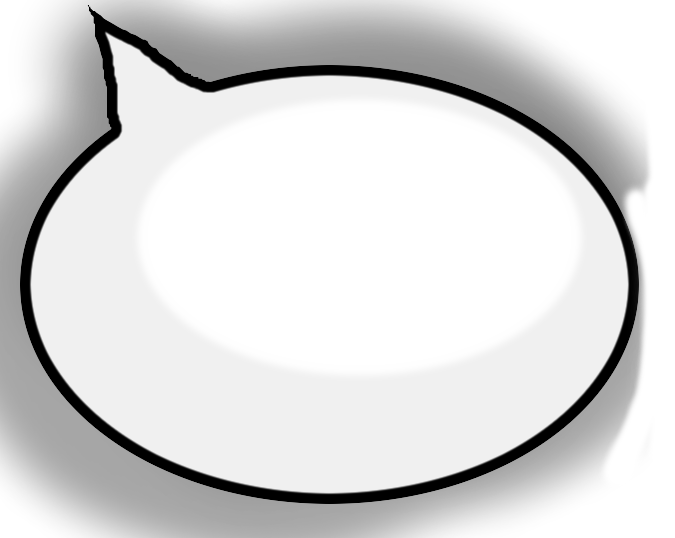
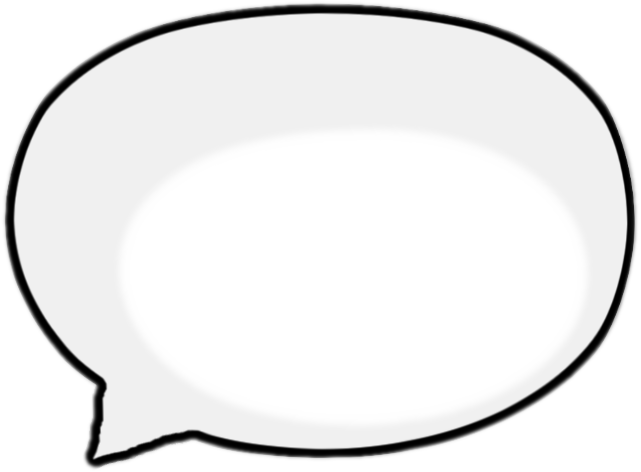
Small tweaks.

diff --git a/resources/public/js/karmagarden.js b/resources/public/js/karmagarden.js
@@ -98,7 +98,7 @@ KGDN.init = function (){
     
     //Initialize piece data and meshes.
  
-
+            KGDN.draw();
 
     
     
@@ -133,7 +133,7 @@ KGDN.init = function (){
             });
     var catScale = 7;
     KGDN.cat = new THREE.Mesh(new THREE.PlaneGeometry(5*catScale,4*catScale),catMat);
-                                               KGDN.cat.position.set(-14,-25,-80);
+                                               KGDN.cat.position.set(65,-30,-80);
                                                
                                                
     KGDN.scene.add(KGDN.cat);
@@ -237,6 +237,7 @@ KGDN.placeFalling = function(){
                 if(!piece.stem){
                 KGDN.scene.remove(Pieces.grid[connected[j][0]][connected[j][1]].group);
                 Pieces.grid[connected[j][0]][connected[j][1]] = 0;
+                    
                     }
                 }
             }
@@ -261,7 +262,6 @@ KGDN.placeFalling = function(){
     $("#trims").html("" + KGDN.trimsLeft);
     Pieces.grow();
         Pieces.falling = Pieces.unplacedQueue.shift();
-    
 };
 
 KGDN.updateHTML = function(){
@@ -302,10 +302,10 @@ $(document).ready(function(){
     // Start the game loop
 
     $("#start-game").click(function(){
-            
+                KGDN.init();    
         $(".loading").fadeOut(3000,function(){
-        KGDN.init();
-        KGDN.draw();
+
+
         KGDN._intervalId = setInterval(KGDN.run, 0);
             $(document).keydown(function(event){
                 if(event.which == 32){

diff --git a/resources/public/css/main.css b/resources/public/css/main.css
@@ -6,14 +6,15 @@ height:100%;
 width:100%;
 }
 .contents{
-text-align:center;
+text-align:left;
 position: relative;
 font-family: "Courier New", serif;
-
+font-weight:bold;
 font-size: 12pt;
-color:#FFFFFF;
+color:#000;
 //opacity:1;
-top: 80px;
+top: 60px;
+left:10px;
 margin: auto;
 width: 450px;
 height: 90px;
@@ -26,7 +27,7 @@ h1,h2,h3{
         
 h1{
 font-size: 70px;
-width: 100%;
+width: 600px;
 text-align: center;
 }
 h2{
@@ -98,15 +99,15 @@ background-color: rgba(0,0,0,0.0);
     }
 #convo-bubble{
     background-size: 100% 100%;
-    background-image: url("/img/convo-bottom.png");
+    background-image: url("/img/convo-top.png");
      background-repeat: no-repeat;
-    left: 0px;
-    bottom: 50px;
+    left: 40px;
+    bottom: 80px;
     opacity:1;
     z-index: 1;
     position: absolute;
     width: 600px;
-    height:250px;
+    height:220px;
 }
 .score-box{
     
@@ -116,9 +117,9 @@ background-color: rgba(0,0,0,0.0);
 
 .thetitle{
 position:absolute;
-bottom:20px;
+bottom:30px;
 left:20px;
-width:100px;
+width:600px;
 z-index: 1003;
 height: 50px;
 }

diff --git a/resources/public/js/pieces.js b/resources/public/js/pieces.js
@@ -38,7 +38,7 @@ Pieces.init = function(){
             }}
 
     //Load stems.
-    $.ajaxSetup( { "async": false } );
+ //   $.ajaxSetup( { "async": false } );
     var px,py;
     for (var i= 0; i < KGDN.subreddits.length; i++){
           
@@ -147,7 +147,7 @@ Pieces.growByAdjCount = function(x,y,scoreThreshold,growthRate){
                 grows = true;
                 Pieces.growth[x +off[0]][y + off[1]] = new Piece(x +off[0],y + off[1],"Growth",Math.floor(Pieces.grid[x][y].score/4),Pieces.grid[x][y].sub,false,false);
                // console.log("GROWING " + x + " " + y);
-                Pieces.growth[x +off[0]][y + off[1]].mesh[0].material.opacity = 0.5;
+                Pieces.growth[x +off[0]][y + off[1]].mesh[0].material.opacity = 0.33;
                 Pieces.grid[x][y].score = Math.floor(Pieces.grid[x][y].score *  0.75);
                 }
             }
